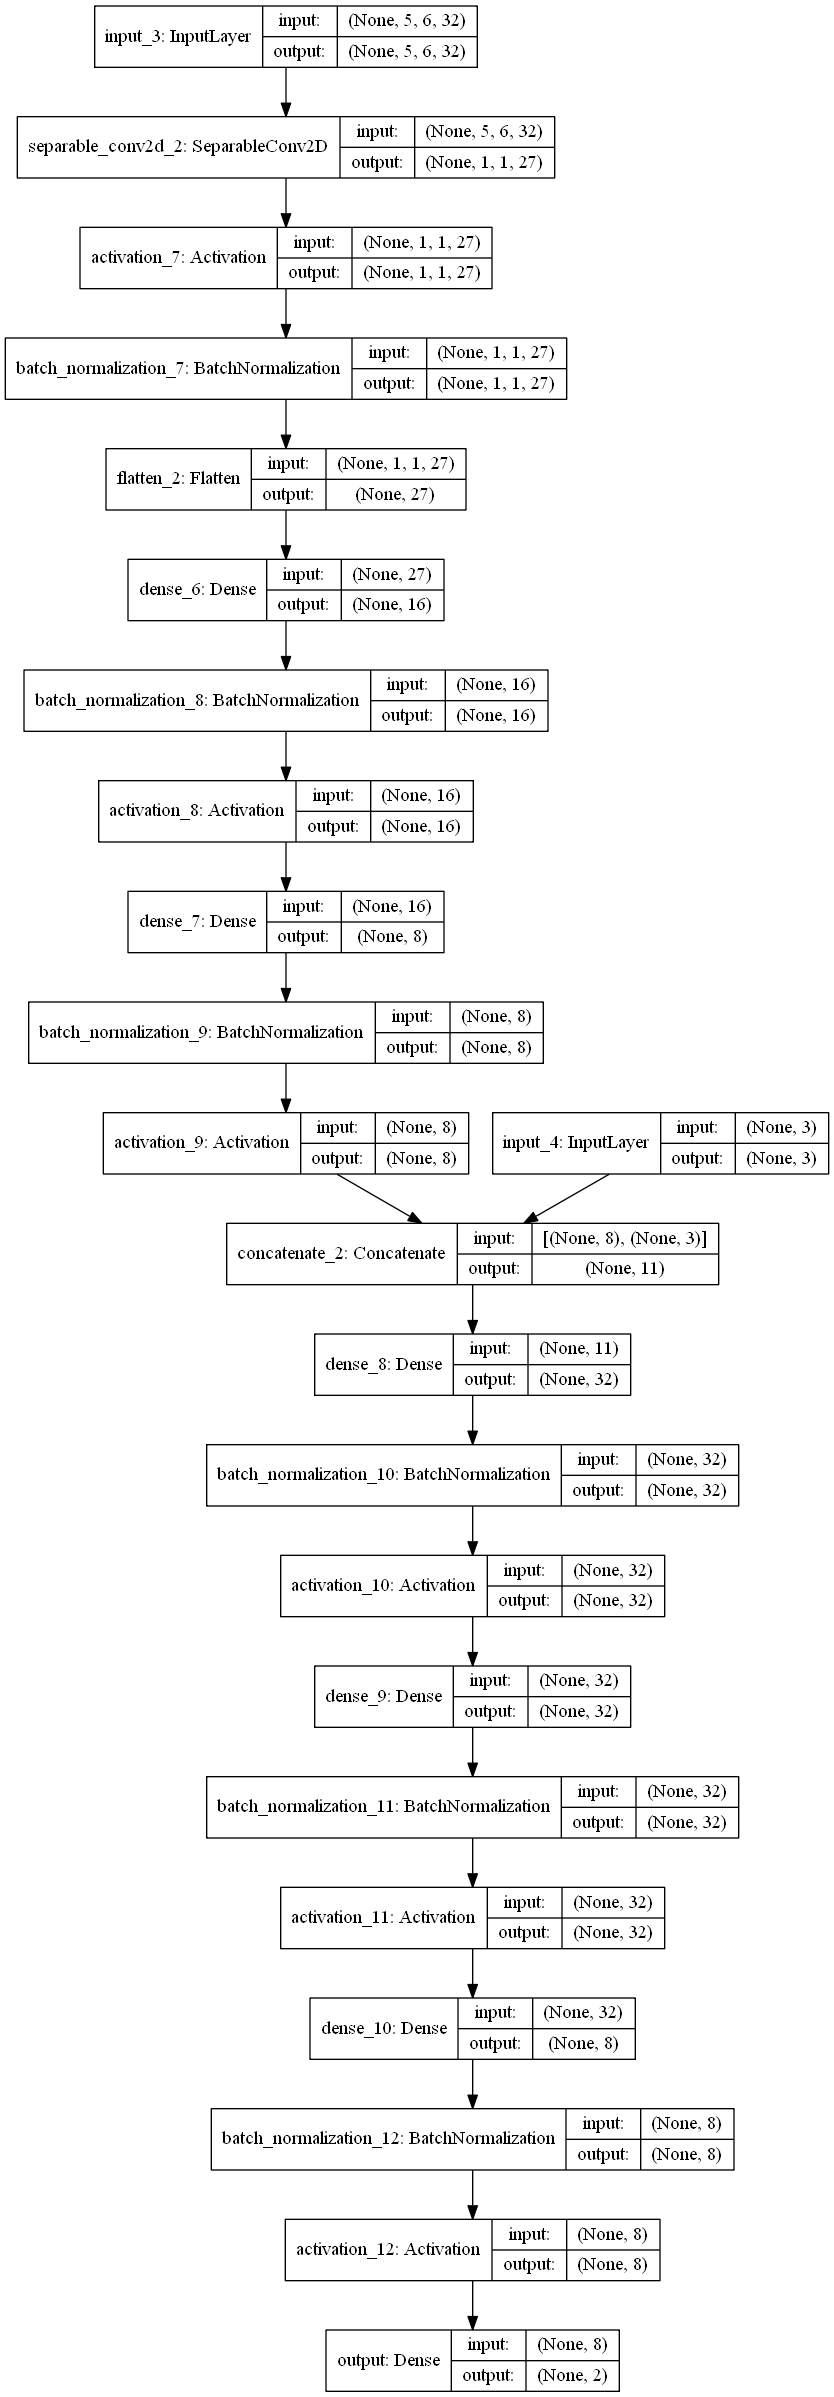
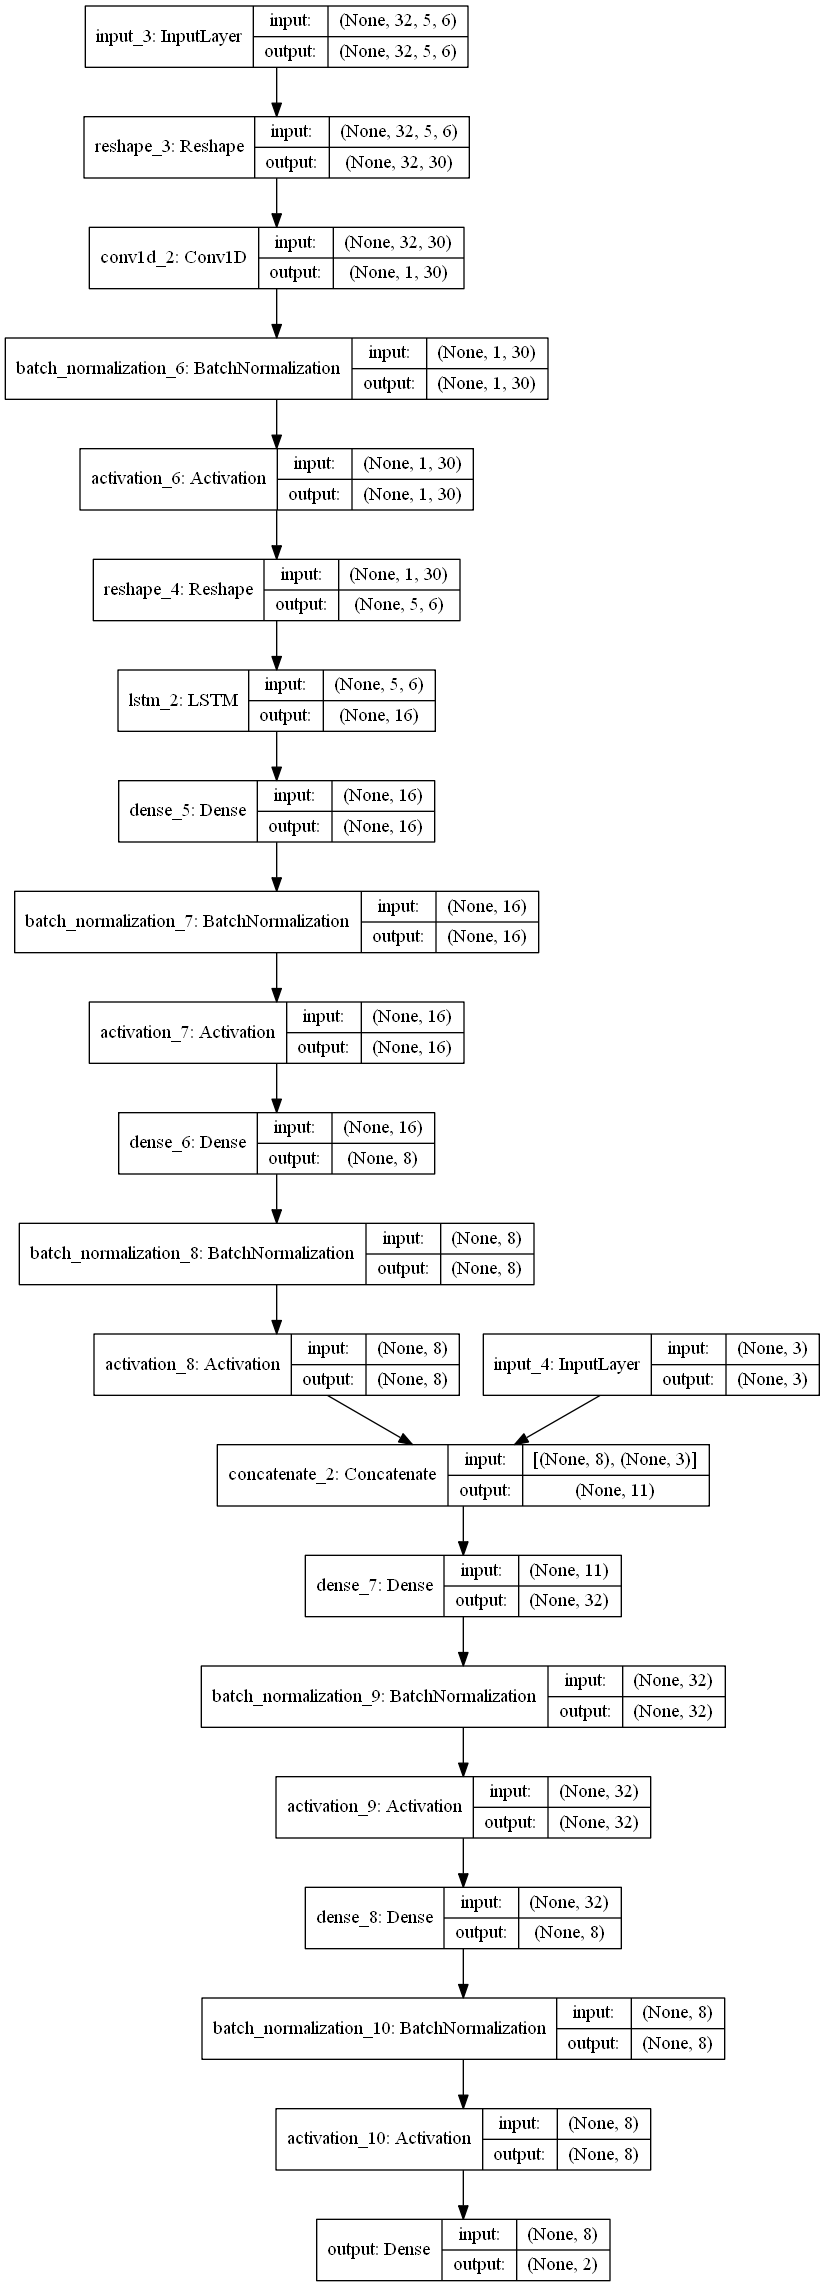
用字典{日期：索引}来替代find_index 完成正则化 修改神经网结构和股价特征shape，修复了LSTM无法编译的bug
存在偶发死循环bug，上次出现症状是最后一个线程在执行run命令时未退出
pause无效
待完成ES噪声算法
待完成glo类，在主进程中初始化后传入子进程，以此避免子进程中二次初始化

Changed region(s): [[0.0, 0.0, 1.0, 1.0], [0.1515, 0.5278, 0.1818, 0.5588]]

diff --git a/ActorNetwork.py b/ActorNetwork.py
@@ -1,4 +1,4 @@
-from keras.layers import LSTM
+from keras.layers import LSTM, Reshape
 
 import glo
 from StockSimEnv import Env
@@ -77,7 +77,8 @@ class ActorNetwork(object):
 
     def build_actor_network(self):
         from keras.models import Model
-        from keras.layers import Input, SeparableConv2D, Activation, BatchNormalization, Dense, Concatenate, Flatten, regularizers
+        from keras.layers import Input, Conv1D, Activation, BatchNormalization, Dense, Concatenate, Flatten, \
+            regularizers
         from keras.utils import plot_model
         """
            输入：state(stock,agent)
@@ -85,32 +86,38 @@ class ActorNetwork(object):
            loss：max(q)，即-tf.reduce_mean(q)
            :return:actor_net_model,weights,stock_state,agent_state
            """
-        input_stock_state = Input(shape=(glo.day, glo.stock_state_size, glo.count))
+        input_stock_state = Input(shape=(glo.count, glo.day, glo.stock_state_size))
         # input_stock_state_ = BatchNormalization(epsilon=1e-4, scale=True, center=True)(input_stock_state)
         input_agent_state = Input(shape=(glo.agent_state_size,))
         # input_agent_state_ = BatchNormalization(epsilon=1e-4, scale=True, center=True)(input_agent_state)
-        x_stock_state = SeparableConv2D(filters=1, kernel_size=6, padding='valid', data_format='channels_first')(
-            input_stock_state)
-        x_stock_state = Activation('tanh')(x_stock_state)
+        # 首先把日期时序和特征压缩
+        x_stock_state = Reshape((glo.count, glo.day * glo.stock_state_size))(input_stock_state)
+        # 对分钟时序进行卷积
+        x_stock_state = Conv1D(filters=glo.day*glo.stock_state_size, kernel_size=32, padding='valid')(x_stock_state)
         x_stock_state = BatchNormalization(axis=2, epsilon=1e-4, scale=True, center=True)(x_stock_state)
-        x_stock_state = Flatten()(x_stock_state)
-        dense01 = Dense(16,kernel_regularizer=regularizers.l2(0.01))(x_stock_state)
+        x_stock_state = Activation('tanh')(x_stock_state)
+        # 展开日期时序和特征
+        x_stock_state = Reshape((glo.day, glo.stock_state_size))(x_stock_state)
+        x_stock_state = LSTM(16, activation='tanh', recurrent_activation='tanh',kernel_regularizer=regularizers.l2(0.01), unroll=True)(x_stock_state)
+        # x_stock_state = Flatten()(x_stock_state)
+        """
+        dense01 = Dense(16, kernel_regularizer=regularizers.l2(0.01))(x_stock_state)
         dense01 = BatchNormalization(epsilon=1e-4, scale=True, center=True)(dense01)
         dense01 = Activation('tanh')(dense01)
-        dense01 = Dense(8,kernel_regularizer=regularizers.l2(0.01))(dense01)
+        dense01 = Dense(8, kernel_regularizer=regularizers.l2(0.01))(dense01)
         dense01 = BatchNormalization(epsilon=1e-4, scale=True, center=True)(dense01)
         dense01 = Activation('tanh')(dense01)
-        merge_layer = Concatenate()([dense01, input_agent_state])
-        dense02= LSTM(32,activation='tanh',recurrent_activation='tanh',kernel_regularizer=regularizers.l2(0.01),unroll=True)(merge_layer)
+        """
+        merge_layer = Concatenate()([x_stock_state, input_agent_state])
         """
         dense02 = Dense(32)(merge_layer)
         dense02 = BatchNormalization(epsilon=1e-4, scale=True, center=True)(dense02)
         dense02 = Activation('tanh')(dense02)
         """
-        dense02 = Dense(32,kernel_regularizer=regularizers.l2(0.01))(dense02)
+        dense02 = Dense(32, kernel_regularizer=regularizers.l2(0.01))(merge_layer)
         dense02 = BatchNormalization(epsilon=1e-4, scale=True, center=True)(dense02)
         dense02 = Activation('tanh')(dense02)
-        dense02 = Dense(8,kernel_regularizer=regularizers.l2(0.01))(dense02)
+        dense02 = Dense(8, kernel_regularizer=regularizers.l2(0.01))(dense02)
         dense02 = BatchNormalization(epsilon=1e-4, scale=True, center=True)(dense02)
         dense02 = Activation('tanh')(dense02)
         output = Dense(glo.action_size, name='output', activation='tanh')(dense02)

diff --git a/StockSimEnv.py b/StockSimEnv.py
@@ -119,7 +119,8 @@ class Env:
         # 归一化
         agent_state = MinMaxScaler().fit_transform(scale(agent_state, axis=0))
         # 整理维度
-        stock_state = np.array(stock_state).reshape(1, glo.day, glo.stock_state_size, glo.count).tolist()
+        stock_state = np.array(stock_state).transpose((1, 0, 2)).tolist()
+        #stock_state = np.array(stock_state).reshape(1, glo.day, glo.stock_state_size, glo.count).tolist()
         agent_state = np.array(agent_state).reshape(1, glo.agent_state_size).tolist()
         return stock_state, agent_state
 
@@ -185,10 +186,12 @@ class Env:
             # 如果实际交易了则记录
             # [股价,手数]
             self.stock_value.append([price, quant])
+        """
         print("日期:" + str(self.gdate.get_date()))
         print("action:" + str(action))
         print("实际交易量：" + str(quant))
         print("实际交易金额（收入为正卖出为负）：" + str(-price * 100 * quant))
+        """
         # 更新环境时间片段
         # 如果没交易则下一时刻
         if quant == 0:

diff --git a/CriticNetwork.py b/CriticNetwork.py
@@ -42,7 +42,7 @@ class CriticNetwork(object):
            loss：(reward+gamma*q_)-q
            :return:
            """
-        input_stock_state = Input(shape=(glo.day, glo.stock_state_size, glo.count))
+        input_stock_state = Input(shape=(glo.count, glo.day, glo.stock_state_size))
         # input_stock_state_ = BatchNormalization(epsilon=1e-4, scale=True, center=True)(input_stock_state)
         input_agent_state = Input(shape=(glo.agent_state_size,))
         # input_agent_state_ = BatchNormalization(epsilon=1e-4, scale=True, center=True)(input_agent_state)

diff --git a/test.py b/test.py
@@ -1,0 +1,9 @@
+from StockSimEnv import Env
+from ActorNetwork import ActorNetwork
+import tensorflow as tf
+import glo
+#glo.init()
+#env = Env()
+#env.get_state()
+sess = tf.Session()
+actor = ActorNetwork(sess)
